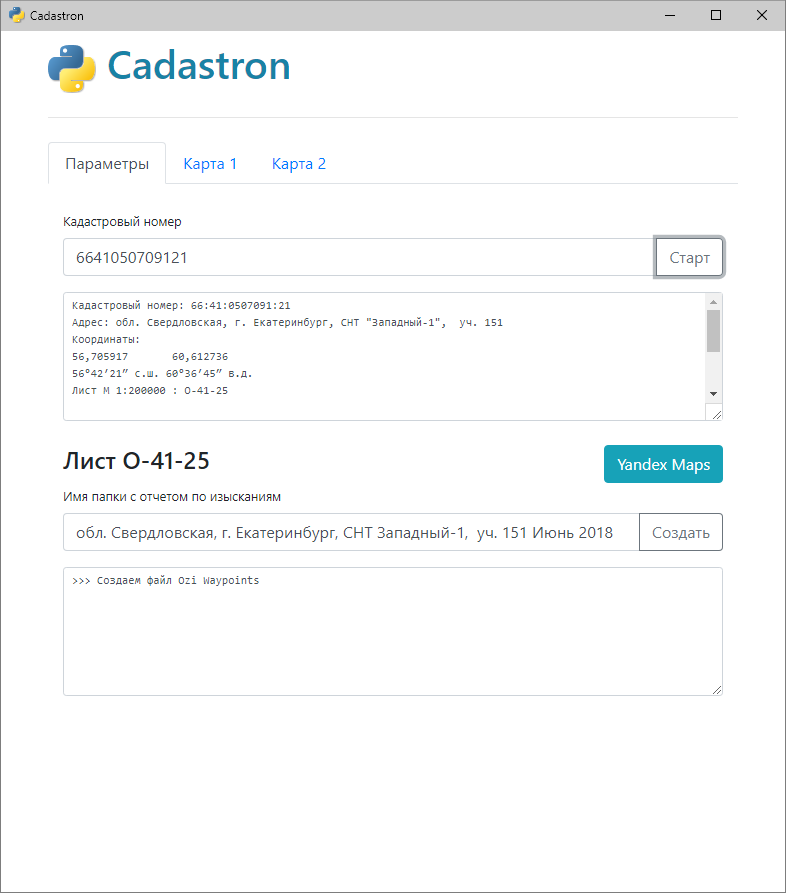
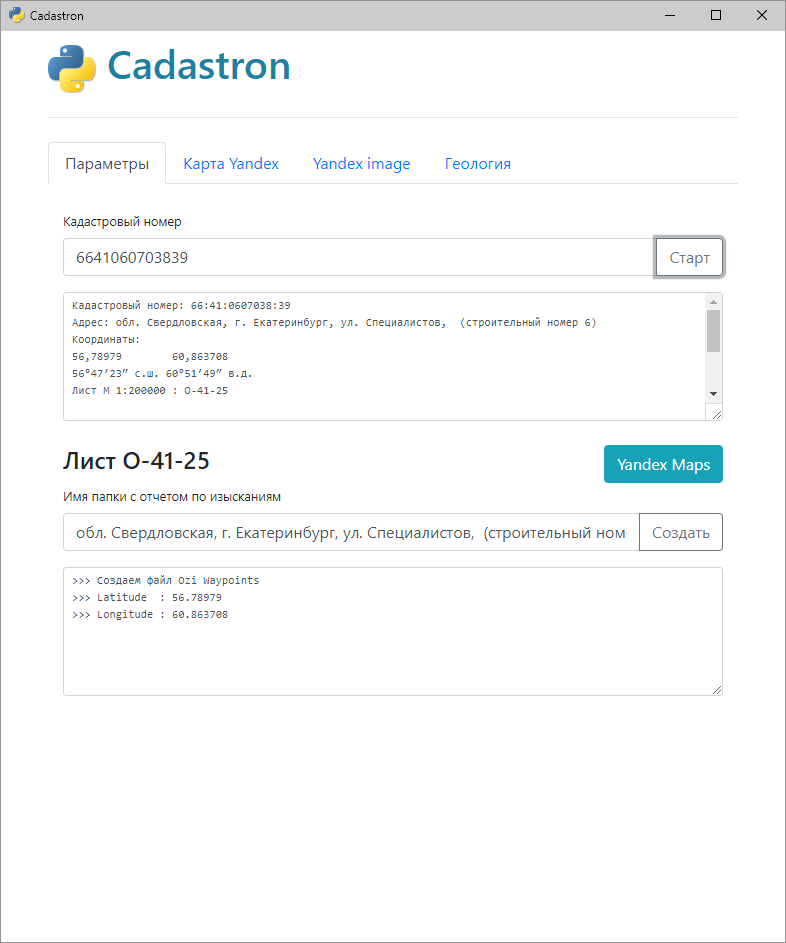
Bug fixes

diff --git a/web/main.html b/web/main.html
@@ -47,11 +47,11 @@
         <a class="nav-link active" data-toggle="tab" href="#tab_home">Параметры</a>
       </li>
       <li class="nav-item">
-        <a class="nav-link" data-toggle="tab" href="#tab_map">Карта 1</a>
+        <a class="nav-link" data-toggle="tab" href="#tab_map">Карта Yandex</a>
         <!-- Yandex Maps interactive -->
       </li>
       <li class="nav-item">
-        <a class="nav-link" data-toggle="tab" href="#tab_map_stat">Карта 2</a>
+        <a class="nav-link" data-toggle="tab" href="#tab_map_stat">Yandex image</a>
         <!-- Yandex Maps  - static image-->
       </li>
       <li class="nav-item">
@@ -98,7 +98,7 @@
       <div id="tab_map" class="container tab-pane fade"><br>
         <!-- Yandex Maps interactive -->
         <div class="d-flex justify-content-center">
-          <div id="map" style="width: 650px; height: 650px"></div>
+          <div id="map"></div>
         </div>
       </div>
 
@@ -134,7 +134,7 @@
         </div> -->
 
         <div class="d-flex justify-content-center">
-          <div id="geomap" style="width: 650px; height: 650px"></div>
+          <div id="geomap"></div>
         </div>
       </div>
 

diff --git a/web/js/script.js b/web/js/script.js
@@ -76,7 +76,7 @@ $(function() {
 
     myMap = new ymaps.Map('map', {
       center: [lat, lon],
-      zoom: 11
+      zoom: 12
     });
 
     myPlacemark = new ymaps.Placemark([lat, lon], {

diff --git a/web/css/main.css b/web/css/main.css
@@ -7,12 +7,12 @@ textarea {
 }
 
 #map {
-  width: 650px; 
+  width: 650px;
   height: 650px;
 }
 
 #geomap {
-  width: 650px; 
+  width: 650px;
   height: 650px;
 }
 

diff --git a/run.py b/run.py
@@ -35,7 +35,7 @@ def load_info(x):
         eel.print_to_input_report_js(cadastron.gen_report_folder(area.address))
         cadastron.make_ozi_file(settings.OZI_WAYPOINTS_FILE, area.ozi_info)
         eel.addOutput('>>> Создаем файл Ozi Waypoints\n')
-        eel.setYmapPosition_js(area.lat, area.lon, 13, area.cadaster)
+        eel.setYmapPosition_js(area.lat, area.lon, 12, area.cadaster)
         eel.set_ymap_src_js(area.yandex_url_static)
         # eel.setGeoMapPosition_js(area.lat, area.lon, 12)
         eel.setGeoMapPosition_js(area.lat, area.lon)
@@ -46,20 +46,6 @@ def load_info(x):
 
     else:
         eel.print_to_textarea_js(area.errmsg)
-
-
-# @eel.expose                         # Expose this function to Javascript
-# def get_latitude():
-#     global area
-#     # return '56.52813'
-#     return area.lat
-#
-#
-# @eel.expose                         # Expose this function to Javascript
-# def get_longitude():
-#     global area
-#     # return '61.430803'
-#     return area.lon
 
 
 @eel.expose                         # Expose this function to Javascript
